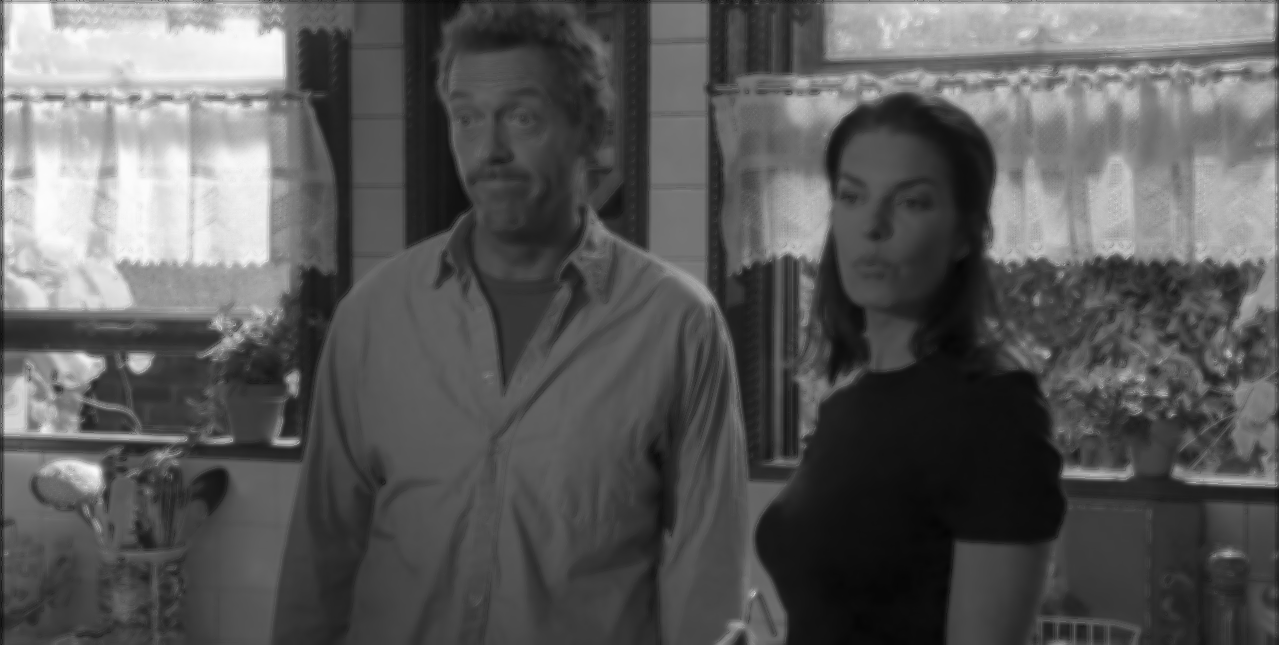
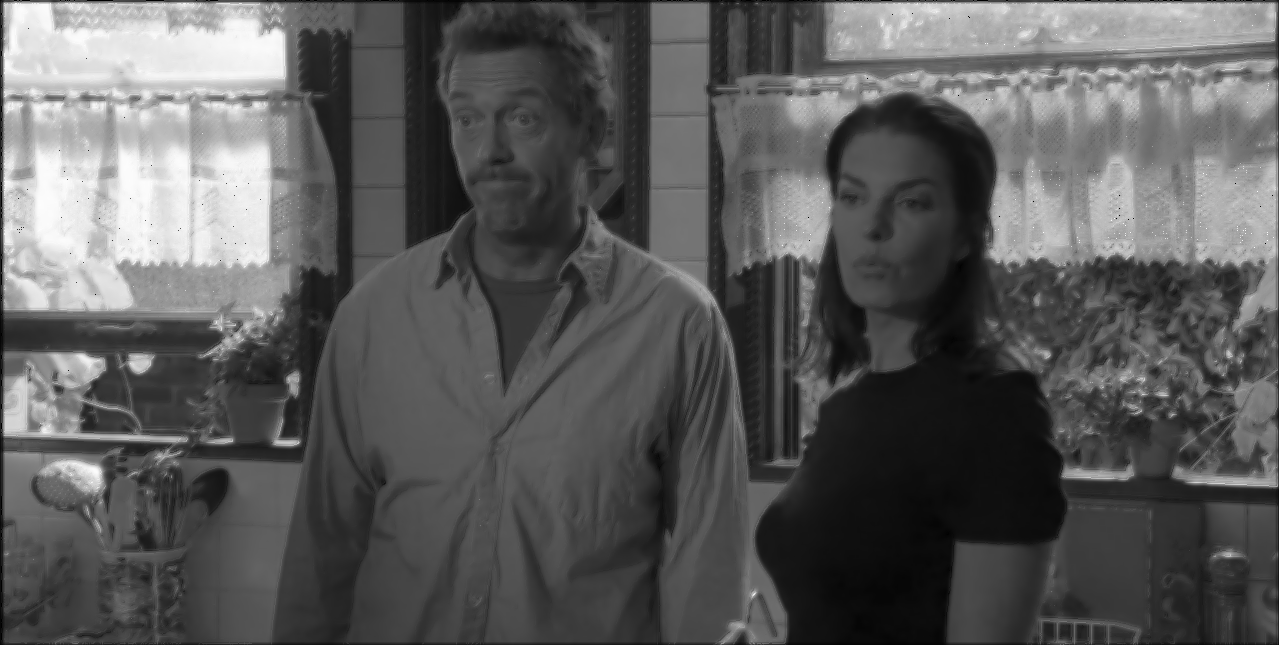
added integral

diff --git a/src/CV.py b/src/CV.py
@@ -18,7 +18,6 @@ def plus(variable1, variable2):
 
 
 def processing(image_):
-
     edge_thresh = 12
     gauss_sigma = 3
     mask_size = cv2.DIST_MASK_5
@@ -27,16 +26,13 @@ def processing(image_):
 
     gray = cv2.cvtColor(image_, cv2.COLOR_RGB2GRAY)
 
-    gauss = cv2.GaussianBlur(gray, (3, 3), gauss_sigma)
-
-    edges = cv2.Canny(gauss, edge_thresh, 3 * edge_thresh, 3)
+    edges = cv2.Canny(gray, edge_thresh, 3 * edge_thresh, 3)
 
     _, threshold = cv2.threshold(edges, 100, 255, cv2.THRESH_TRUNC)
 
     distance = cv2.distanceTransform(threshold, dist_type, mask_size)
 
-    normal = distance
-    cv2.normalize(distance, normal, 0, 1, cv2.NORM_MINMAX)
+    integal = cv2.integral(gray)
 
     rows, columns = np.array(gray).shape
 
@@ -45,37 +41,36 @@ def processing(image_):
     with pymp.Parallel() as p:
         for i in p.range(0, rows):
             for j in range(0, columns):
-                dist = float(normal[i][j])
+                dist = float(distance[i][j])
                 if dist == 0:
                     dist = 2
 
-                i_minus = minus(i - coefficient * dist/2)
-                j_minus = minus(j - coefficient * dist/2)
+                i_minus = minus(i - coefficient * dist / 2)
+                j_minus = minus(j - coefficient * dist / 2)
                 i_plus = plus((i + coefficient * dist / 2), rows)
                 j_plus = plus((j + coefficient * dist / 2), columns)
 
-                sum_, count = 0, 0
+                size = (coefficient * dist) * (coefficient * dist)
 
-                for i_ in range(i_minus, i_plus+1):
-                    for j_ in range(j_minus, j_plus+1):
-                        sum_ += int(gray[i_][j_])
-                        count += 1
-                output[i][j] = int(sum_/count)
+                output[i][j] = (integal[i_minus][j_minus] + integal[i_plus][j_plus] - integal[i_minus][j_plus]
+                                - integal[i_plus][j_minus]) / size
 
-    return gray, gauss, edges, threshold, distance, normal, output
+    return gray, edges, threshold, distance, output
 
 
 image = cv2.imread("../images/image1.png", cv2.IMREAD_COLOR)
 
-gray_, gauss_, edges_, threshold_, distance_,  normal_, output_ = processing(image)
+gray_, edges_, threshold_, distance_, output_ = processing(image)
 
-images = [gray_, gauss_, edges_, threshold_, distance_, normal_, output_]
-names = ['gray', 'gauss', 'edges', 'threshold', 'distance', 'normal', 'output']
+images = [gray_, edges_, threshold_, distance_, output_]
+names = ['gray', 'edges', 'threshold', 'distance', 'output']
 
 i = 0
 for name in names:
-    cv2.imwrite('../result/'+name+'.png', images[i])
+    cv2.imwrite('../result/' + name + '.png', images[i])
     i += 1
+
+print(output_)
 
 cv2.waitKey(0)
 cv2.destroyAllWindows()
